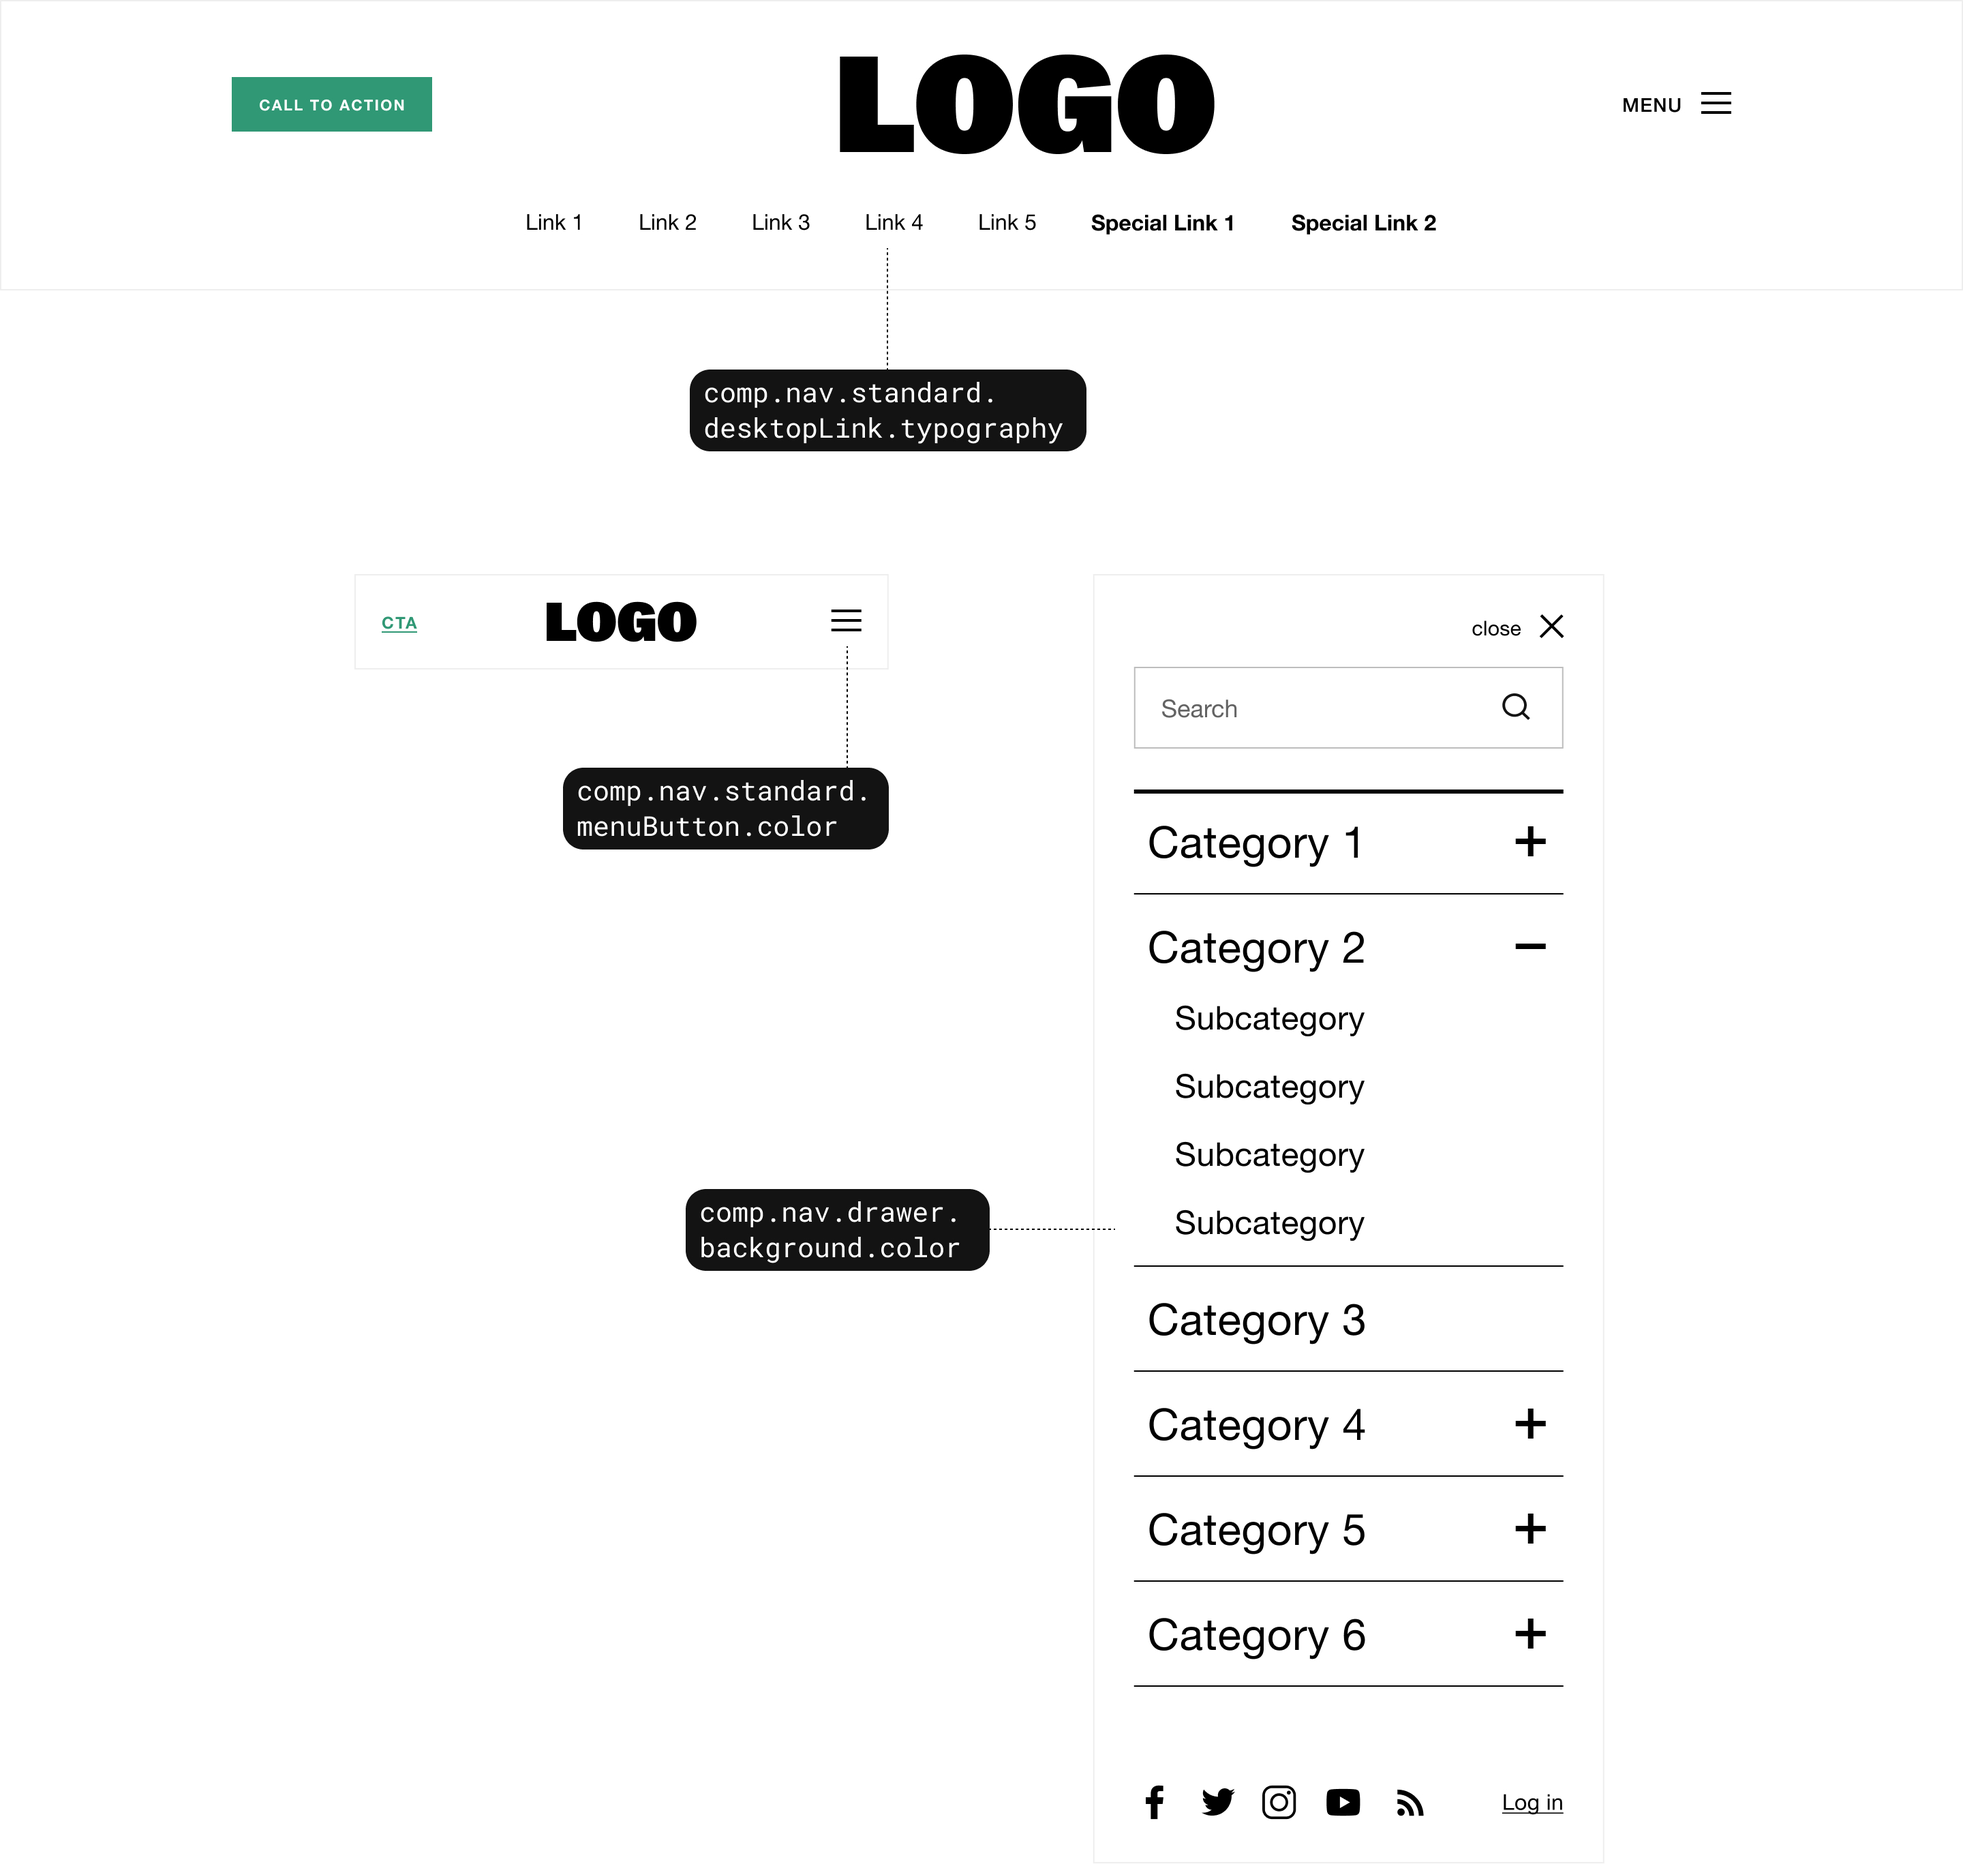
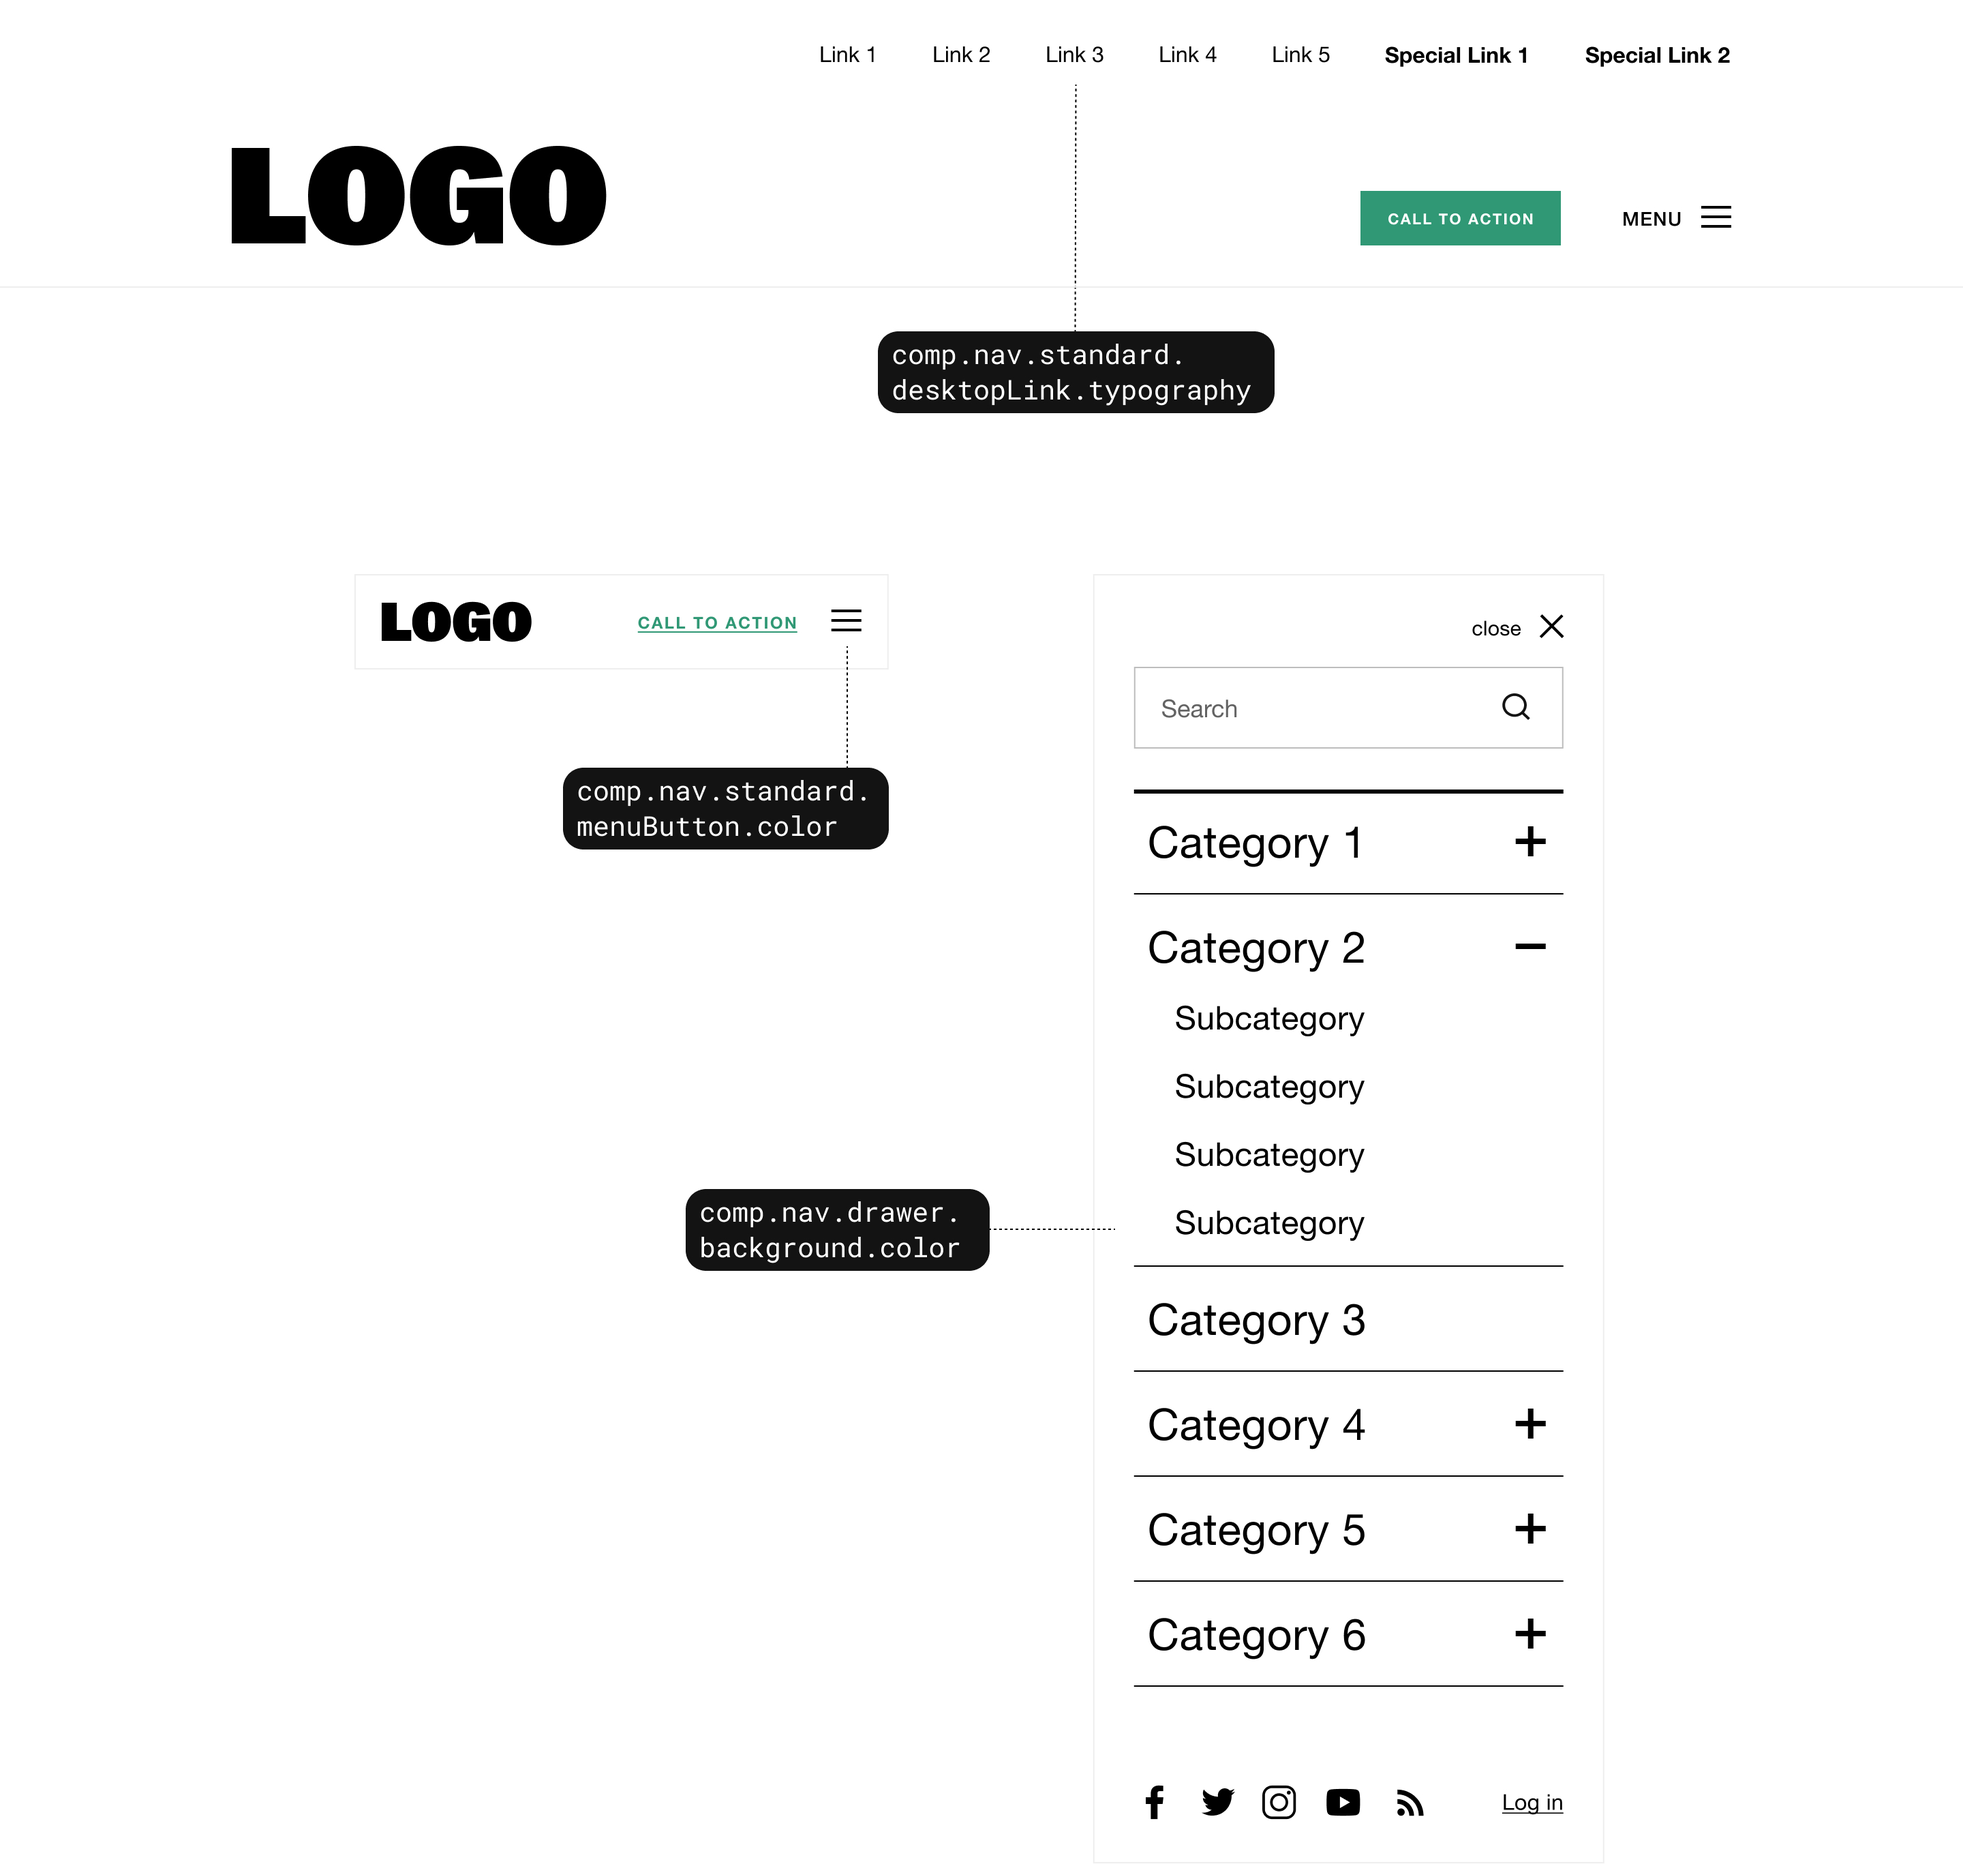
copy editing, image updates

diff --git a/docs/overtone-design-system/index.html b/docs/overtone-design-system/index.html
@@ -174,7 +174,7 @@
 </div>
 
 <h2>Navigation</h2>
-<p>The navigation part of the system has some standardized parts and some highly customizable parts. The nav that is at the top of the page is customizable in terms of layout but is made up of the same components (logo, category links, hamburger menu button) while the menu that pulls out from the hamburger menu icon has a standardized layout but allows for some color and type styling. </p>
+<p>Navigation has some standardized parts and some highly customizable parts. The nav that is at the top of the page is customizable in terms of layout but is made up of the same components (logo, category links, hamburger menu button) while the menu that pulls out from the hamburger menu icon has a standardized layout but allows for color and type styling. </p>
 <div class="img-flex-wrapper">
     <img alt="default nav" src="/img/overtone_design_system/nav_usd.jpg">
     <span class="caption">default nav</span>

diff --git a/posts/overtone-design-system.md b/posts/overtone-design-system.md
@@ -105,7 +105,7 @@ The article body components are more standardized compared to the ledes but stil
 
 ## Navigation
 
-The navigation part of the system has some standardized parts and some highly customizable parts. The nav that is at the top of the page is customizable in terms of layout but is made up of the same components (logo, category links, hamburger menu button) while the menu that pulls out from the hamburger menu icon has a standardized layout but allows for some color and type styling. 
+Navigation has some standardized parts and some highly customizable parts. The nav that is at the top of the page is customizable in terms of layout but is made up of the same components (logo, category links, hamburger menu button) while the menu that pulls out from the hamburger menu icon has a standardized layout but allows for color and type styling. 
 
 <div class="img-flex-wrapper">
     <img alt="default nav" src="/img/overtone_design_system/nav_usd.jpg">
